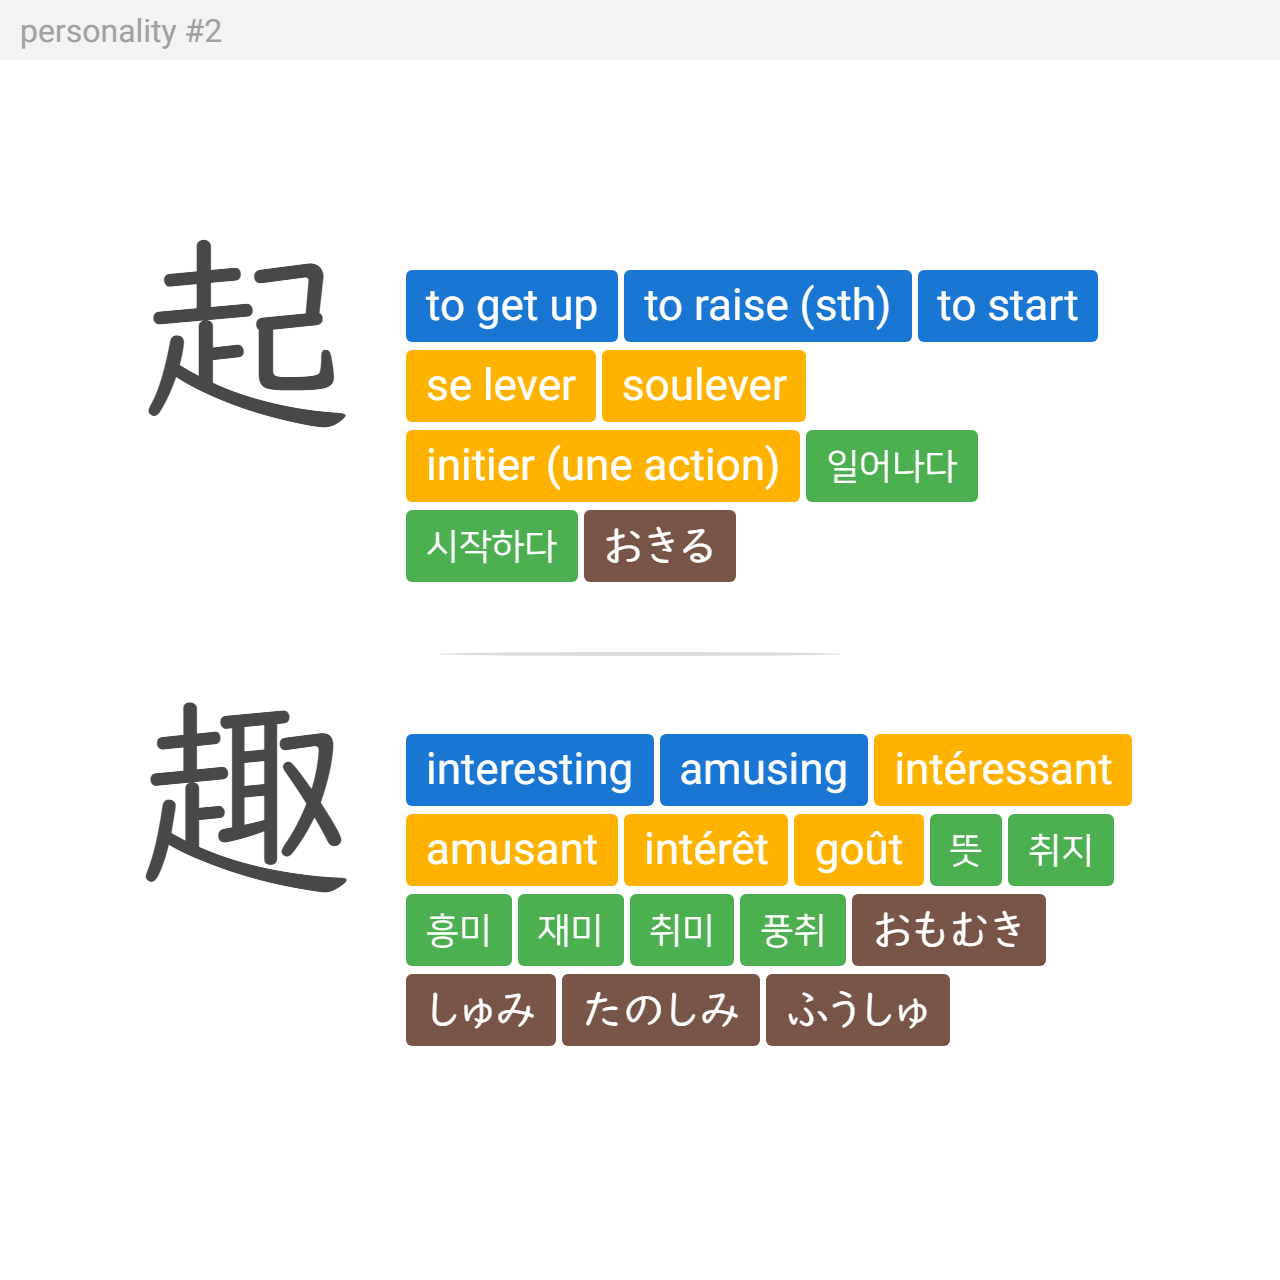
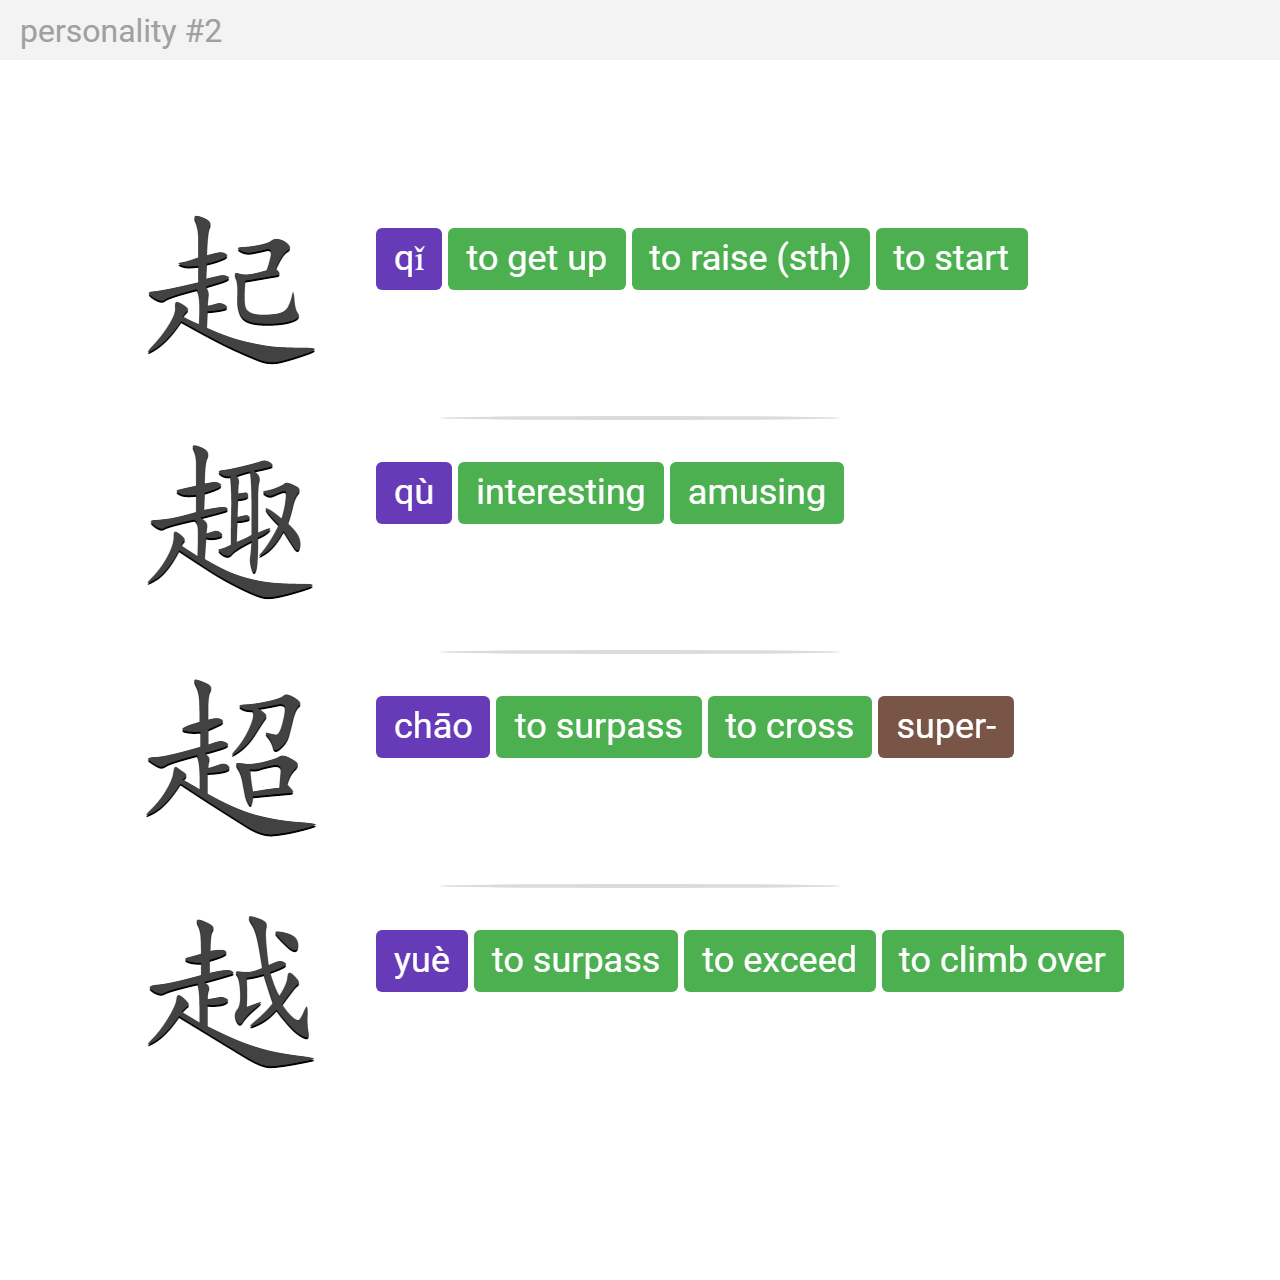
update board and personality

Changed region(s): [[0.0938, 0.5312, 0.9062, 0.8438], [0.2812, 0.1562, 0.875, 0.4688], [0.125, 0.1562, 0.2812, 0.4688]]

diff --git a/confusion/confusions.js b/confusion/confusions.js
@@ -149,6 +149,20 @@ export const confusion6 = {
 }
 
 
+export const confusion7 = {
+  langs: ['all'],
+  char1: {
+    name: '已',
+    pinyin: 'yǐ',
+    hangeul: '이'
+  },
+  char2: {
+    name: '己',
+    pinyin: 'jǐ',
+    hangeul: '기'
+  }
+}
+
 
 export const renderConfusionCard = (content, confusion = lastConfusionName(), lang) => {
 
@@ -173,6 +187,84 @@ export const renderConfusionCard = (content, confusion = lastConfusionName(), la
     korean: isKorean(meaning),
     chinese: isChinese(meaning) || isJapanese(meaning)
   });
+
+  render(html`
+  <style>
+    .card {
+      padding: 70px 20px;
+      box-sizing: border-box;
+      background: #ffffff;
+    }
+    .question {
+      font-size: 200%;
+      text-transform: uppercase;
+      font-weight: bold;
+      margin: 0 0 60px 0;
+      /* color: orange; */
+    }
+    .content {
+      width: 100%;
+      display: flex;
+      font-size: 124%;
+      min-height: 223px;
+    }
+    .content > .side {
+      flex: 1;
+      display: flex;
+      flex-direction: column;
+      align-items: center;
+    }
+    .side > header {
+      display: flex;
+      flex-direction: column;
+      align-items: center;
+    }
+    header > .hanja {
+      font-size: 700%;
+      margin: 0 0 20px;
+    }
+    header > span:nth-of-type(2) {
+      font-weight: bold;
+      color: #f8635e;
+    }
+    .pinyin {
+      font-family: monospace;
+      font-size: 152%;
+      font-weight: 100;
+    }
+    .side.left {
+      border-right: 4px solid rgba(66, 66, 66, .05);
+    }
+
+    .signature {
+      position: absolute;
+      bottom: 5px;
+      right: 6px;
+      font-size: 70%;
+    }
+  </style>
+  <div class="card">
+    <div class="question">Do you know the difference ?</div>
+    <div class="content">
+      <div class="side left">
+        <header>
+          <span class="hanja chinese">${confusion.char1.name}</span>
+          <span class="korean">【 <span class="pinyin">${confusion.char1.pinyin}</span> / ${confusion.char1.hangeul} 】</span>
+        </header>
+      </div>
+      <div class="side right">
+        <header>
+          <span class="hanja chinese">${confusion.char2.name}</span>
+          <span class="korean">【 <span class="pinyin">${confusion.char2.pinyin}</span> / ${confusion.char2.hangeul} 】</span>
+        </header>
+      </div>
+      <div class="signature">@ballangddang</div>
+    </div>
+    <div class=""></div>
+  </div>
+  `, content);
+
+  return;
 
   render(html`
   <style>

diff --git a/personality/index.html b/personality/index.html
@@ -16,16 +16,13 @@
       <div id="content"></div>
     </div>
 
-    <div id="tags" style="width:500px;margin: 20px auto;">#중국어#한어#한자#漢語#汉语#chinese#chinois#english#영어#japanese#日本#일본#french#프랑스어#languages#langues#언어#言语#공부스타그램#공부#공부스타#맞팔#선팔#study</div>
+    <div id="tags" style="width:500px;margin: 20px auto;">#vocabulary#lovechinese#study#chinois#chinese#중국말#중국어#한문#한자#จีน#中国語#čínsky#Chinesisch#kineski#kinesisk#الصينية#chino#китайский#chineselanguage#learnchinese#studychinese#lovechina#漢字#中文#中國#中华#Cina#cinese#Čínsky</div>
 
     <script type="module">
       import { createCard } from "./personality.js";
       import { render } from '../node_modules/lit-html/lit-html.js';
 
-      render(
-        createCard(), 
-        document.getElementById('content')
-      );
+      render(createCard('personality2'), content);
     </script>
   </body>
 </html>

diff --git a/confusion/index.html b/confusion/index.html
@@ -16,7 +16,7 @@
       <div id="content"></div>
     </div>
 
-    <p id="tags" style="width: 500px;margin:20px auto;">#language#languagecommunity#languagelovers#photo#교환학생#langues#中文#汉字#中文字#hsk#hsk4#중국어#chinois#chinese#你好#안녕#bonjour#프랑스</p>
+    <p id="tags" style="width: 500px;margin:20px auto;">#vocabulary#lovechinese#study#chinois#chinese#중국말#중국어#한문#한자#จีน#中国語#čínsky#Chinesisch#kineski#kinesisk#الصينية#chino#китайский#chineselanguage#learnchinese#studychinese#lovechina#漢字#中文#中國#中华#Cina#cinese#Čínsky</p>
 
     <script type="module">
       import { renderConfusionCard } from './confusions.js';
@@ -26,6 +26,7 @@
         document.getElementById('content')
       );
 
+      console.log(`${tags.innerText.split('#').length} tags`);
       // window.renderCard = (lang) => render(createConfusionCard(), content);
 
       // content.addEventListener('click', () => {

diff --git a/personality/personality.js b/personality/personality.js
@@ -27,11 +27,19 @@ export const personality1 = [
 export const personality2 = [
   {
     hj: '起',
-    meanings: ['to get up/to raise (sth)/to start', 'se lever/soulever/initier (une action)', '일어나다/시작하다', 'おきる']
+    meanings: ['qǐ', 'to get up/to raise (sth)/to start']
   },
   {
     hj: '趣',
-    meanings: ['interesting/amusing', 'intéressant/amusant/intérêt/goût', '뜻/취지/흥미/재미/취미/풍취', 'おもむき/しゅみ/たのしみ/ふうしゅ']
+    meanings: ['qù', 'interesting/amusing']
+  },
+  {
+    hj: '超',
+    meanings: ['chāo', 'to surpass/to cross', 'super-']
+  },
+  {
+    hj: '越',
+    meanings: ['yuè', 'to surpass/to exceed/to climb over']
   }
 ];
 

diff --git a/board/boards.js b/board/boards.js
@@ -1159,7 +1159,7 @@ export const board16 = [
   }
 ];
 
-
+// 和an應v用v
 
 let colorsForFunBoard;
 window.getColorsForFunBoard = () => colorsForFunBoard;

diff --git a/styles/layout.css b/styles/layout.css
@@ -20,7 +20,7 @@
   border: 1px solid black;
 }
 
-.card header {
+.card > header {
   position: absolute;
   top:0;
   left: 0;
